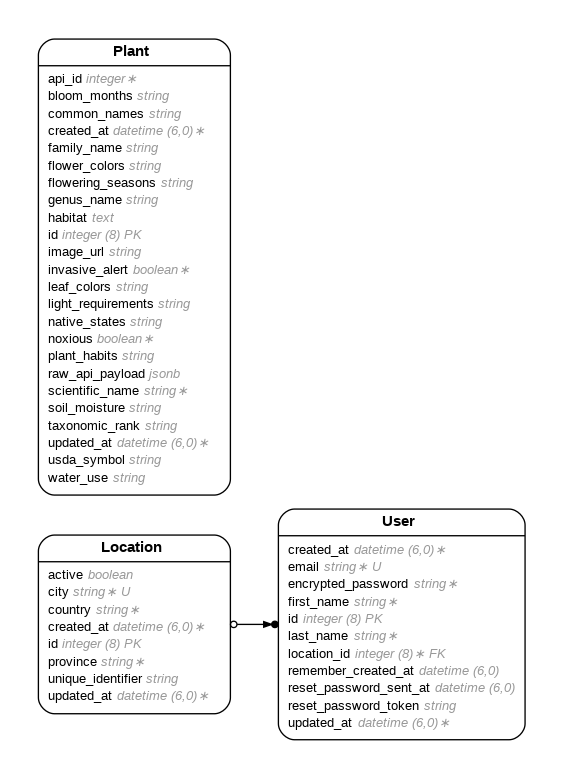
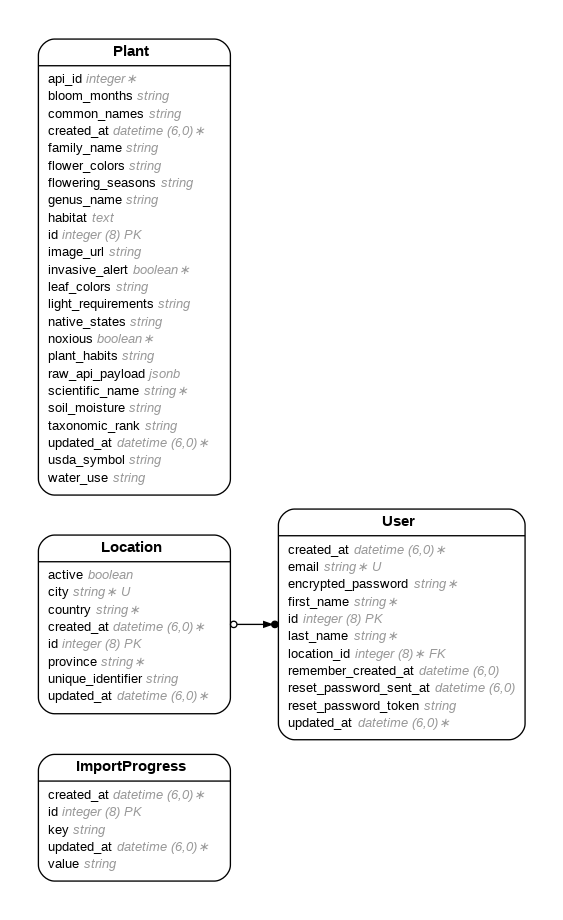
set up a cron job to try to populate the plants table. will check back tomorrow to see the progress?

Changed region(s): [[0.0604, 0.0308, 0.4227, 0.9551], [0.4529, 0.5546, 0.9361, 0.9551], [0.9059, 0.5546, 0.9361, 0.6778]]

diff --git a/app/services/plants_importer.rb b/app/services/plants_importer.rb
@@ -1,0 +1,134 @@
+# app/services/plants_importer.rb
+require 'net/http'
+require 'uri'
+require 'json'
+
+class PlantsImporter
+  API_URL = 'https://api.floraapi.com/v1/export/bulk'
+  API_KEY = ENV['FLORA_API_KEY']
+
+  TARGET_STATES   = %w[IL IN OH WI].freeze
+  TARGET_FAMILIES = %w[Asteraceae Poaceae Lamiaceae Ranunculaceae Caprifoliaceae].freeze
+  LIMIT = 100
+
+  # Public entry point for cron
+  def self.call
+    state = next_state
+    family = next_family
+    letter = next_letter
+
+    puts "=== Importing plants for #{state}, family #{family}, starting with letter #{letter} ==="
+
+    plants_data = fetch_plants(state: state, family_name: family, limit: LIMIT, scientific_name_starts_with: letter)
+    if plants_data.empty?
+      puts "No plants returned for #{state}, #{family}, letter #{letter}"
+    else
+      plants_data.each { |plant| save_plant(plant) }
+    end
+
+    # Update rotation to next letter/family/state
+    advance_rotation(state, family, letter)
+  end
+
+  private_class_method
+
+  def self.next_state
+    last = ImportProgress.find_by(key: 'last_state')&.value
+    idx = TARGET_STATES.index(last) || -1
+    TARGET_STATES[(idx + 1) % TARGET_STATES.size]
+  end
+
+  def self.next_family
+    last = ImportProgress.find_by(key: 'last_family')&.value
+    idx = TARGET_FAMILIES.index(last) || -1
+    TARGET_FAMILIES[(idx + 1) % TARGET_FAMILIES.size]
+  end
+
+  def self.next_letter
+    last = ImportProgress.find_by(key: 'last_letter')&.value || 'A'
+    if last == 'Z'
+      'A'
+    else
+      (last.ord + 1).chr
+    end
+  end
+
+  def self.advance_rotation(state, family, letter)
+    # Save last letter
+    ImportProgress.find_or_create_by(key: 'last_letter').update(value: letter)
+
+    # If we finished 'Z', move to next family
+    if letter == 'Z'
+      next_fam = TARGET_FAMILIES[(TARGET_FAMILIES.index(family) + 1) % TARGET_FAMILIES.size]
+      ImportProgress.find_or_create_by(key: 'last_family').update(value: next_fam)
+
+      # If we wrapped families, move to next state
+      if next_fam == TARGET_FAMILIES.first
+        next_st = TARGET_STATES[(TARGET_STATES.index(state) + 1) % TARGET_STATES.size]
+        ImportProgress.find_or_create_by(key: 'last_state').update(value: next_st)
+      end
+    end
+  end
+
+  # Fetch plants from Flora API
+  def self.fetch_plants(state:, family_name:, limit:, scientific_name_starts_with:)
+    params = {
+      format: 'json',
+      state: state,
+      family_name: family_name,
+      limit: limit,
+      scientific_name_contains: scientific_name_starts_with
+    }
+
+    uri = URI(API_URL)
+    uri.query = URI.encode_www_form(params)
+
+    request = Net::HTTP::Get.new(uri)
+    request['Accept'] = 'application/json'
+    request['Authorization'] = "Bearer #{API_KEY}"
+
+    response = Net::HTTP.start(uri.hostname, uri.port, use_ssl: uri.scheme == 'https') do |http|
+      http.request(request)
+    end
+
+    case response
+    when Net::HTTPSuccess
+      data = JSON.parse(response.body)
+      data['species'] || []
+    else
+      puts "API returned #{response.code} #{response.message}"
+      []
+    end
+  rescue StandardError => e
+    puts "Error fetching plants: #{e.message}"
+    []
+  end
+
+  # Save plant to DB
+  def self.save_plant(plant_data)
+    plant = Plant.find_or_initialize_by(api_id: plant_data['id'])
+    plant.assign_attributes(
+      scientific_name: plant_data['scientific_name'],
+      common_names: plant_data['common_names'] || [],
+      family_name: plant_data['family_name'],
+      genus_name: plant_data['genus_name'],
+      usda_symbol: plant_data['usda_symbol'],
+      taxonomic_rank: plant_data['taxonomic_rank'],
+      native_states: plant_data['nativity'] || [],
+      plant_habits: plant_data['plant_habits'] || [],
+      flower_colors: plant_data['flower_colors'] || [],
+      leaf_colors: plant_data['leaf_colors'] || [],
+      bloom_months: plant_data['bloom_months'] || [],
+      flowering_seasons: plant_data['flowering_seasons'] || [],
+      light_requirements: plant_data['light_requirements'] || [],
+      soil_moisture: plant_data['soil_moisture'] || [],
+      water_use: plant_data['water_use'] || [],
+      image_url: plant_data['preferred_image_url'],
+      habitat: plant_data['habitat'],
+      invasive_alert: plant_data['invasive_alert'] || false,
+      noxious: plant_data['noxious'] || false,
+      raw_api_payload: plant_data
+    )
+    plant.save!
+  end
+end

diff --git a/db/schema.rb b/db/schema.rb
@@ -10,9 +10,16 @@
 #
 # It's strongly recommended that you check this file into your version control system.
 
-ActiveRecord::Schema[8.0].define(version: 2026_02_17_191640) do
+ActiveRecord::Schema[8.0].define(version: 2026_02_17_231404) do
   # These are extensions that must be enabled in order to support this database
   enable_extension "pg_catalog.plpgsql"
+
+  create_table "import_progresses", force: :cascade do |t|
+    t.string "key"
+    t.string "value"
+    t.datetime "created_at", null: false
+    t.datetime "updated_at", null: false
+  end
 
   create_table "locations", force: :cascade do |t|
     t.string "country", null: false

diff --git a/app/models/import_progress.rb b/app/models/import_progress.rb
@@ -1,0 +1,12 @@
+# == Schema Information
+#
+# Table name: import_progresses
+#
+#  id         :bigint           not null, primary key
+#  key        :string
+#  value      :string
+#  created_at :datetime         not null
+#  updated_at :datetime         not null
+#
+class ImportProgress < ApplicationRecord
+end

diff --git a/config/schedule.rb b/config/schedule.rb
@@ -25,3 +25,11 @@ set :output, "log/cron.log"
 every 1.year, at: '2:00 am' do
   runner "LocationsImportJob.perform_later"
 end
+
+set :output, "log/cron.log"
+env :PATH, ENV['PATH']
+
+# Run every 6 minutes to use 10 requests/hour
+every 6.minutes do
+  rake "flora:import"
+end

diff --git a/db/migrate/20260217231404_create_import_progresses.rb b/db/migrate/20260217231404_create_import_progresses.rb
@@ -1,0 +1,10 @@
+class CreateImportProgresses < ActiveRecord::Migration[8.0]
+  def change
+    create_table :import_progresses do |t|
+      t.string :key
+      t.string :value
+
+      t.timestamps
+    end
+  end
+end
